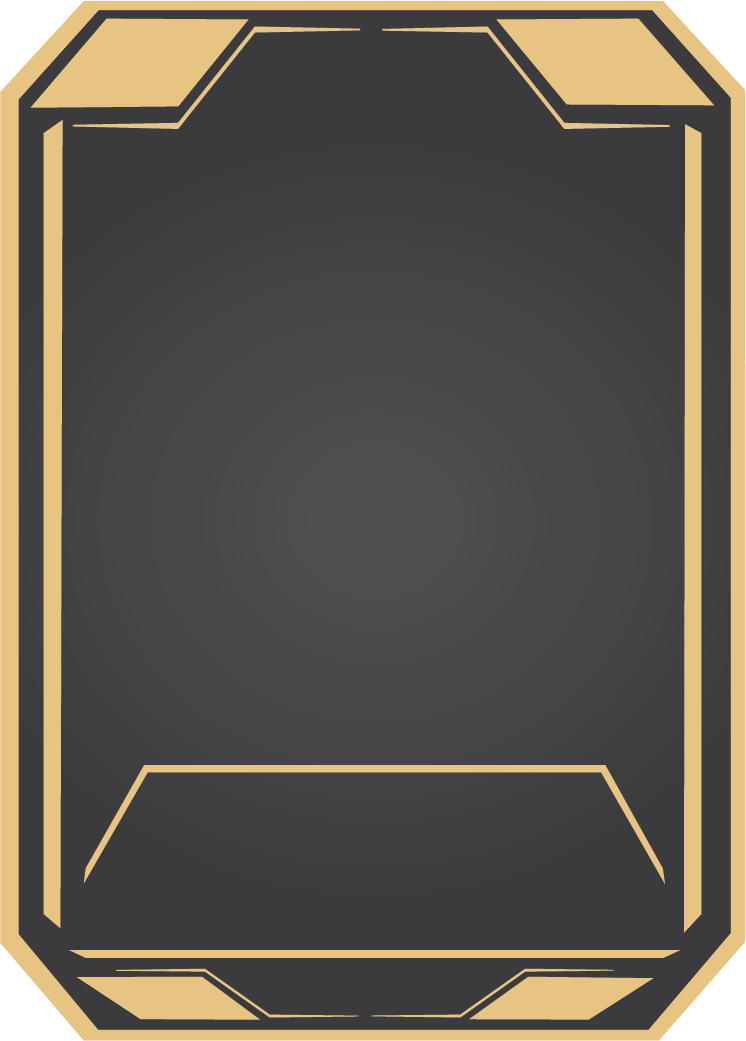
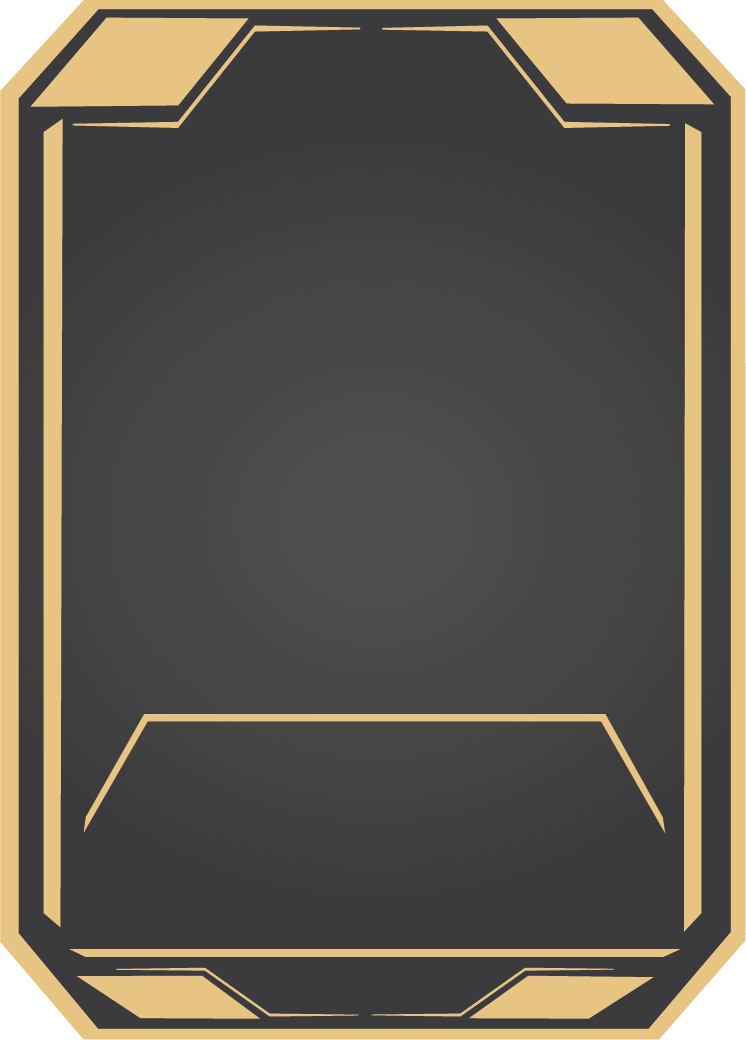
Увеличил область текста на картах. Заменил шрифты.

diff --git a/boss-rush/Assets/Scripts/Ui/Hud/Card/CardAnimator.cs b/boss-rush/Assets/Scripts/Ui/Hud/Card/CardAnimator.cs
@@ -39,7 +39,7 @@ namespace Ui.Hud.Card
             {
                 _pickUpCardSequence = DOTween.Sequence()
                     .Append(rectTransform.DOMove(_endPosition, .03f))
-                    .Join(rectTransform.DOScale(1.1f, .03f))
+                    .Join(rectTransform.DOScale(1.15f, .03f))
                     .Join(rectTransform.DORotate(Vector3.zero, .03f))
                     .SetEase(Ease.OutExpo);
             }
